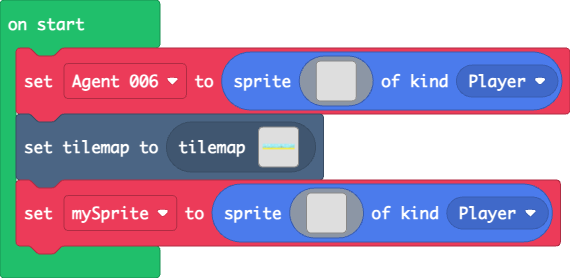
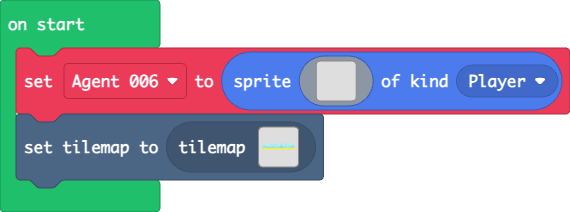
Update main.blocks, main.ts

diff --git a/main.ts b/main.ts
@@ -17,21 +17,3 @@ let Agent_006 = sprites.create(img`
     . . . . . . . . . . . . . . . . 
     `, SpriteKind.Player)
 tiles.setCurrentTilemap(tilemap`Level2`)
-let mySprite = sprites.create(img`
-    . . . . . . . . . . . . . . . . 
-    . . . . . . . . . . . . . . . . 
-    . . . . . . . . . . . . . . . . 
-    . . . . . . . . . . . . . . . . 
-    . . . . . . . . . . . . . . . . 
-    . . . . . . . . . . . . . . . . 
-    . . . . . . . . . . . . . . . . 
-    . . . . . . . . . . . . . . . . 
-    . . . . . . . . . . . . . . . . 
-    . . . . . . . . . . . . . . . . 
-    . . . . . . . . . . . . . . . . 
-    . . . . . . . . . . . . . . . . 
-    . . . . . . . . . . . . . . . . 
-    . . . . . . . . . . . . . . . . 
-    . . . . . . . . . . . . . . . . 
-    . . . . . . . . . . . . . . . . 
-    `, SpriteKind.Player)
